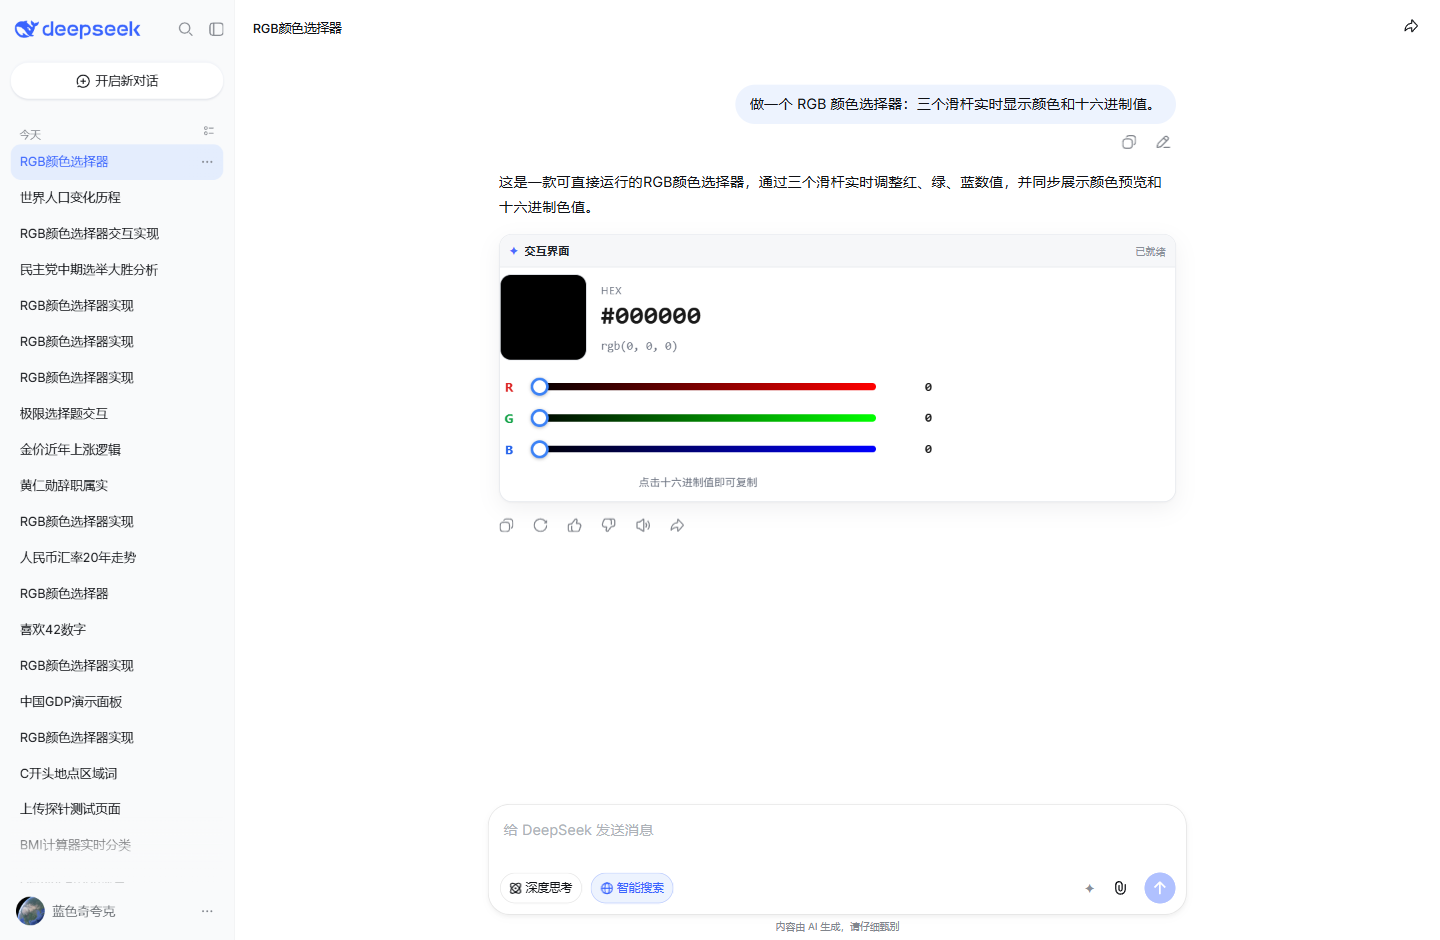
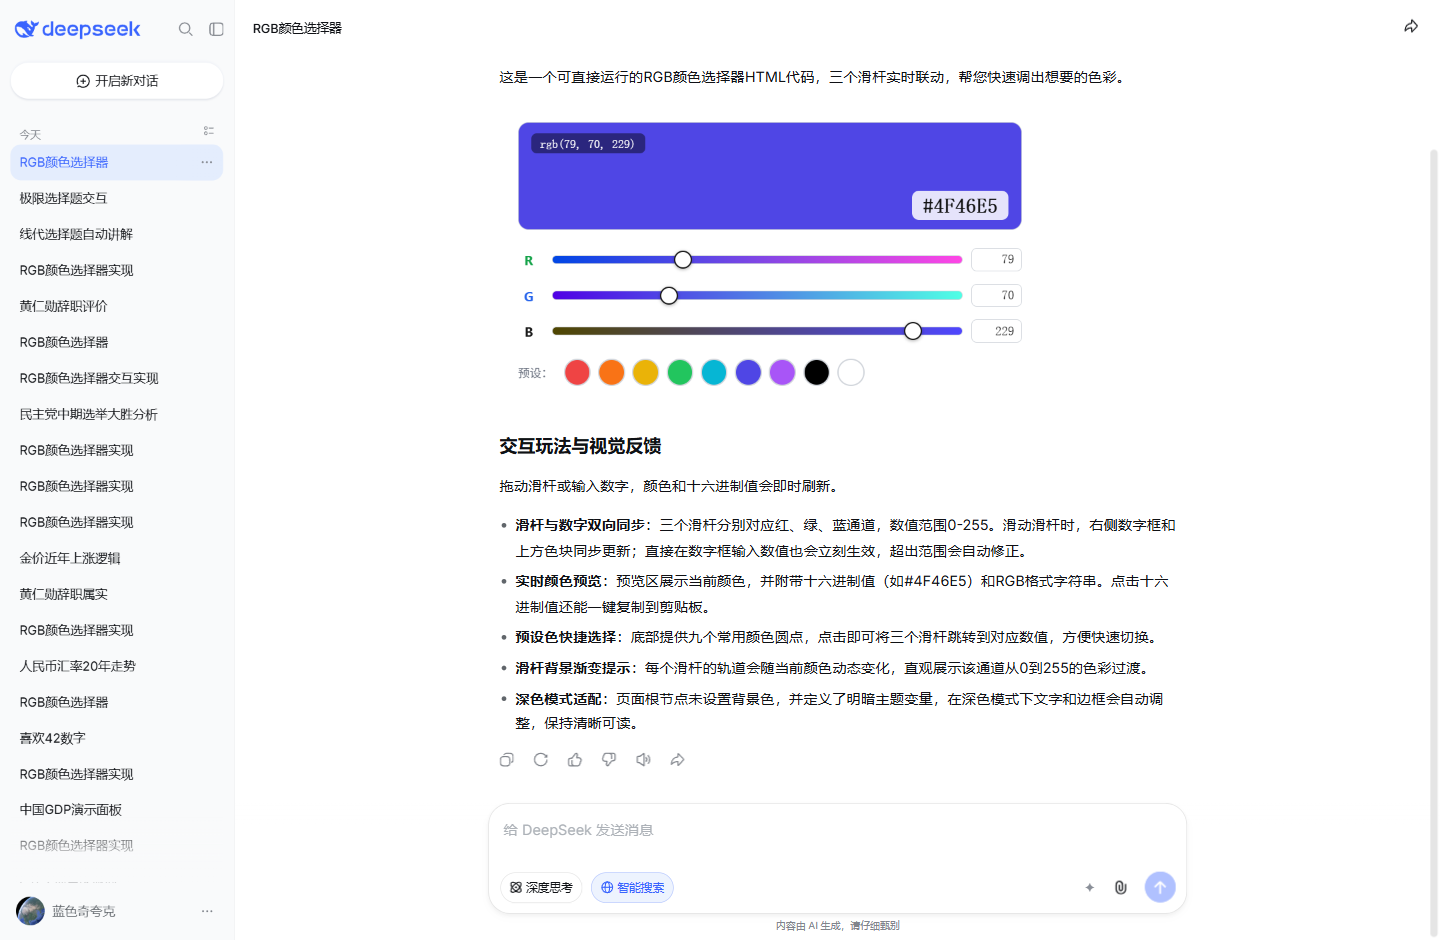
feat(ui): v1.2.0 seamless dsui rendering
- dsui widgets lose card frame, header (star/title), and toolbar; transparent background, no border/shadow/radius
- dsui height extends naturally with content (page scroll) instead of being clipped to 72vh; html fallback unchanged
- fix null statusEl timer for headerless dsui widgets
- docs/screenshot and README/architecture updated

diff --git a/dist/intelligent-deepseek.user.js b/dist/intelligent-deepseek.user.js
@@ -2,7 +2,7 @@
 // @name         DeepSeek Intelligent UI
 // @name:zh-CN   DeepSeek 智能交互界面
 // @namespace    lsqkk.intelligent-deepseek
-// @version      1.1.1
+// @version      1.2.0
 // @description  Bring GPT-6 Intelligent-UI style interactive HTML rendering to chat.deepseek.com: first-turn protocol injection, streaming dsui widgets, and widget-to-chat actions.
 // @description:zh-CN  给 chat.deepseek.com 引入类似 GPT-6 Intelligent UI 的机制：新会话首条消息注入界面协议、流式渲染可交互 HTML 组件、组件可回传消息继续对话。
 // @author       lsqkk
@@ -574,6 +574,45 @@ html.dark .dsui-widget {
 }
 .dsui-code::-webkit-scrollbar { width: 0; height: 0; display: none; }
 .dsui-code code { font: inherit; color: inherit; }
+
+/* dsui：去掉卡片外框，融入对话；高度自然延展 */
+.dsui-widget[data-kind="dsui"] {
+  border: 0;
+  border-radius: 0;
+  background: transparent;
+  box-shadow: none;
+  margin: 8px 0 14px;
+  overflow: visible;
+  animation: none;
+}
+.dsui-widget[data-kind="dsui"] .dsui-placeholder {
+  position: static;
+  min-height: 72px;
+  background: transparent;
+  color: var(--dsui-muted);
+}
+.dsui-widget[data-kind="dsui"] .dsui-frame { background: transparent; }
+.dsui-widget[data-kind="dsui"] .dsui-foot {
+  border: 0;
+  background: transparent;
+  padding: 4px 2px 0;
+}
+.dsui-widget[data-kind="dsui"] .dsui-code { border-radius: 10px; }
+
+/* 长组件底部用轻微渐隐提示还有内容（不遮挡交互） */
+.dsui-widget[data-kind="dsui"] .dsui-body::after {
+  content: "";
+  position: absolute;
+  left: 0;
+  right: 0;
+  bottom: 0;
+  height: 14px;
+  pointer-events: none;
+  background: linear-gradient(to bottom, transparent, color-mix(in srgb, var(--dsui-bg) 55%, transparent));
+  opacity: 0;
+  transition: opacity .2s ease;
+}
+.dsui-widget[data-kind="dsui"][data-overflow="1"] .dsui-body::after { opacity: 1; }
 .dsui-foot {
   padding: 7px 12px;
   border-top: 1px solid var(--dsui-border);
@@ -709,10 +748,10 @@ body.dark #dsui-fab.dsui-fab-floating, html.dark #dsui-fab.dsui-fab-floating {
     const title = m?.[1]?.trim();
     return title ? decodeEntities(title).slice(0, 80) : fallback;
   }
-  function clampWidgetHeight(height, viewportHeight = window.innerHeight) {
+  function clampWidgetHeight(height, viewportHeight = window.innerHeight, options = {}) {
     const content = Number(height) || 0;
-    const min = 140;
-    const max = Math.max(min + 80, Math.round(viewportHeight * 0.72));
+    const min = Number(options.min) || 140;
+    const max = Number(options.max) || Math.max(min + 80, Math.round(viewportHeight * 0.72));
     return Math.min(Math.max(content, min), max);
   }
   var decoderEl = null;
@@ -1149,19 +1188,21 @@ body.dark #dsui-fab.dsui-fab-floating, html.dark #dsui-fab.dsui-fab-floating {
       const root = document.createElement("div");
       root.className = "dsui-widget";
       root.dataset.dsuiId = this.id;
+      root.dataset.kind = this.kind;
       root.dataset.state = "streaming";
       const actions = this.kind === "html" ? `<span class="dsui-actions">
              <button type="button" class="dsui-btn" data-act="code" title="切换查看源码">代码</button>
              <button type="button" class="dsui-btn" data-act="copy" title="复制源码">复制</button>
              <button type="button" class="dsui-btn" data-act="download" title="下载 HTML">下载</button>
            </span>` : "";
+      const head = this.kind === "html" ? `<div class="dsui-head">
+             <span class="dsui-mark" aria-hidden="true">✦</span>
+             <span class="dsui-title">交互界面</span>
+             <span class="dsui-status" data-busy="1">生成中…</span>
+             ${actions}
+           </div>` : "";
       root.innerHTML = `
-      <div class="dsui-head">
-        <span class="dsui-mark" aria-hidden="true">✦</span>
-        <span class="dsui-title">交互界面</span>
-        <span class="dsui-status" data-busy="1">生成中…</span>
-        ${actions}
-      </div>
+      ${head}
       <div class="dsui-body">
         <div class="dsui-placeholder"><span class="dsui-spinner"></span><span>正在构建界面…</span></div>
         <iframe class="dsui-frame" sandbox="allow-scripts" referrerpolicy="no-referrer" title="交互界面"></iframe>
@@ -1178,7 +1219,7 @@ body.dark #dsui-fab.dsui-fab-floating, html.dark #dsui-fab.dsui-fab-floating {
       this.codeEl = root.querySelector(".dsui-code code");
       this.footEl = root.querySelector(".dsui-foot");
       this.sendTimes = [];
-      this.iframe.style.height = "260px";
+      this.iframe.style.height = this.kind === "dsui" ? "120px" : "260px";
       root.addEventListener("click", (event) => this.onClick(event));
       this.iframe.addEventListener("load", () => {
         if (this.navigated) return;
@@ -1279,7 +1320,7 @@ body.dark #dsui-fab.dsui-fab-floating, html.dark #dsui-fab.dsui-fab-floating {
       this.ready = false;
       if (!this.el) return;
       const title = extractTitle(next, "交互界面");
-      if (this.titleEl.textContent !== title) this.titleEl.textContent = title;
+      if (this.titleEl && this.titleEl.textContent !== title) this.titleEl.textContent = title;
       this.setStatus("生成中…", true);
       if (this.el) this.el.dataset.state = "streaming";
       if (this.showCode) this.codeEl.textContent = next;
@@ -1296,7 +1337,7 @@ body.dark #dsui-fab.dsui-fab-floating, html.dark #dsui-fab.dsui-fab-floating {
       clearTimeout(this.statusTimer);
       this.statusTimer = setTimeout(() => {
         if (this.footEl) this.footEl.hidden = true;
-        this.statusEl.textContent = "";
+        if (this.statusEl) this.statusEl.textContent = "";
       }, 2600);
     }
     scheduleRender(immediate) {
@@ -1377,7 +1418,7 @@ body.dark #dsui-fab.dsui-fab-floating, html.dark #dsui-fab.dsui-fab-floating {
           this.applyHeight(data.height);
           break;
         case "title":
-          if (data.text) this.titleEl.textContent = String(data.text).slice(0, 80);
+          if (data.text && this.titleEl) this.titleEl.textContent = String(data.text).slice(0, 80);
           break;
         case "error":
           this.showError(data.message);
@@ -1390,9 +1431,17 @@ body.dark #dsui-fab.dsui-fab-floating, html.dark #dsui-fab.dsui-fab-floating {
       }
     }
     applyHeight(height) {
-      const h = clampWidgetHeight(height, window.innerHeight);
+      const isDsui = this.kind === "dsui";
+      const h = clampWidgetHeight(height, window.innerHeight, {
+        // dsui 去掉卡片外框后让高度自然延展，由页面滚动承接
+        min: isDsui ? 60 : 140,
+        max: isDsui ? 6e3 : Math.max(220, Math.round(window.innerHeight * 0.72))
+      });
       this.lastHeight = h;
       this.iframe.style.height = `${h}px`;
+      if (isDsui && this.el) {
+        this.el.dataset.overflow = Number(height) > h + 2 ? "1" : "0";
+      }
     }
     async sendMessageToChat(text) {
       const content = String(text ?? "").trim();
@@ -1697,7 +1746,7 @@ select:focus, textarea:focus { border-color: var(--accent); }
 .btn:active { transform: translateY(1px); }
 .hint { margin-top: 9px; font-size: 10.5px; color: var(--muted); line-height: 1.5; }
 `;
-  var VERSION = false ? "dev" : "1.1.1";
+  var VERSION = false ? "dev" : "1.2.0";
   var TOGGLES = [
     { key: "enabled", label: "启用 Intelligent UI", desc: "总开关：关闭后不注入、不渲染" },
     { key: "injectPrompt", label: "自动注入界面协议", desc: "新会话首条消息注入一次（推荐）" },
@@ -1889,7 +1938,7 @@ select:focus, textarea:focus { border-color: var(--accent); }
     registerMenu(ui);
     if (getSettings().debug) installDebugApi(ui);
     if (getSettings().debug) {
-      console.info("[DS-UI] booted", "1.1.1", "settings=", getSettings());
+      console.info("[DS-UI] booted", "1.2.0", "settings=", getSettings());
       setTimeout(() => console.info("[DS-UI] debug state", window.__dsui?.debugState?.()), 3e3);
     }
     window.addEventListener("beforeunload", () => rendererStop?.());
@@ -1918,7 +1967,7 @@ select:focus, textarea:focus { border-color: var(--accent); }
   function installDebugApi(ui) {
     installWidgetMessageRouter();
     const api = {
-      version: "1.1.1",
+      version: "1.2.0",
       getSettings,
       saveSettings,
       resetSettings: () => {
@@ -1932,7 +1981,7 @@ select:focus, textarea:focus { border-color: var(--accent); }
       debugState() {
         return {
           settings: getSettings(),
-          version: "1.1.1",
+          version: "1.2.0",
           roots: document.querySelectorAll(".ds-markdown.ds-assistant-message-main-content").length,
           blocks: [...document.querySelectorAll(".md-code-block")].map((block) => ({
             lang: readLang(block),

diff --git a/src/widget.js b/src/widget.js
@@ -339,6 +339,7 @@ export class Widget {
     const root = document.createElement('div');
     root.className = 'dsui-widget';
     root.dataset.dsuiId = this.id;
+    root.dataset.kind = this.kind;
     root.dataset.state = 'streaming';
     const actions =
       this.kind === 'html'
@@ -348,13 +349,17 @@ export class Widget {
              <button type="button" class="dsui-btn" data-act="download" title="下载 HTML">下载</button>
            </span>`
         : '';
+    const head =
+      this.kind === 'html'
+        ? `<div class="dsui-head">
+             <span class="dsui-mark" aria-hidden="true">✦</span>
+             <span class="dsui-title">交互界面</span>
+             <span class="dsui-status" data-busy="1">生成中…</span>
+             ${actions}
+           </div>`
+        : '';
     root.innerHTML = `
-      <div class="dsui-head">
-        <span class="dsui-mark" aria-hidden="true">✦</span>
-        <span class="dsui-title">交互界面</span>
-        <span class="dsui-status" data-busy="1">生成中…</span>
-        ${actions}
-      </div>
+      ${head}
       <div class="dsui-body">
         <div class="dsui-placeholder"><span class="dsui-spinner"></span><span>正在构建界面…</span></div>
         <iframe class="dsui-frame" sandbox="allow-scripts" referrerpolicy="no-referrer" title="交互界面"></iframe>
@@ -374,7 +379,7 @@ export class Widget {
     this.sendTimes = [];
 
     // 初始高度，避免 iframe 高度为 0 时内容测量异常
-    this.iframe.style.height = '260px';
+    this.iframe.style.height = this.kind === 'dsui' ? '120px' : '260px';
 
     root.addEventListener('click', (event) => this.onClick(event));
     this.iframe.addEventListener('load', () => {
@@ -484,7 +489,7 @@ export class Widget {
     if (!this.el) return;
 
     const title = extractTitle(next, '交互界面');
-    if (this.titleEl.textContent !== title) this.titleEl.textContent = title;
+    if (this.titleEl && this.titleEl.textContent !== title) this.titleEl.textContent = title;
     this.setStatus('生成中…', true);
     if (this.el) this.el.dataset.state = 'streaming';
 
@@ -504,7 +509,7 @@ export class Widget {
     clearTimeout(this.statusTimer);
     this.statusTimer = setTimeout(() => {
       if (this.footEl) this.footEl.hidden = true;
-      this.statusEl.textContent = '';
+      if (this.statusEl) this.statusEl.textContent = '';
     }, 2600);
   }
 
@@ -593,7 +598,7 @@ export class Widget {
         this.applyHeight(data.height);
         break;
       case 'title':
-        if (data.text) this.titleEl.textContent = String(data.text).slice(0, 80);
+        if (data.text && this.titleEl) this.titleEl.textContent = String(data.text).slice(0, 80);
         break;
       case 'error':
         this.showError(data.message);
@@ -607,9 +612,17 @@ export class Widget {
   }
 
   applyHeight(height) {
-    const h = clampWidgetHeight(height, window.innerHeight);
+    const isDsui = this.kind === 'dsui';
+    const h = clampWidgetHeight(height, window.innerHeight, {
+      // dsui 去掉卡片外框后让高度自然延展，由页面滚动承接
+      min: isDsui ? 60 : 140,
+      max: isDsui ? 6000 : Math.max(220, Math.round(window.innerHeight * 0.72)),
+    });
     this.lastHeight = h;
     this.iframe.style.height = `${h}px`;
+    if (isDsui && this.el) {
+      this.el.dataset.overflow = Number(height) > h + 2 ? '1' : '0';
+    }
   }
 
   async sendMessageToChat(text) {
@@ -672,7 +685,6 @@ export class Widget {
     else delete this.statusEl.dataset.busy;
     if (text) this.statusEl.hidden = false;
   }
-
   showError(message) {
     if (!this.footEl) return;
     this.footEl.hidden = false;

diff --git a/src/styles.js b/src/styles.js
@@ -152,6 +152,45 @@ html.dark .dsui-widget {
 }
 .dsui-code::-webkit-scrollbar { width: 0; height: 0; display: none; }
 .dsui-code code { font: inherit; color: inherit; }
+
+/* dsui：去掉卡片外框，融入对话；高度自然延展 */
+.dsui-widget[data-kind="dsui"] {
+  border: 0;
+  border-radius: 0;
+  background: transparent;
+  box-shadow: none;
+  margin: 8px 0 14px;
+  overflow: visible;
+  animation: none;
+}
+.dsui-widget[data-kind="dsui"] .dsui-placeholder {
+  position: static;
+  min-height: 72px;
+  background: transparent;
+  color: var(--dsui-muted);
+}
+.dsui-widget[data-kind="dsui"] .dsui-frame { background: transparent; }
+.dsui-widget[data-kind="dsui"] .dsui-foot {
+  border: 0;
+  background: transparent;
+  padding: 4px 2px 0;
+}
+.dsui-widget[data-kind="dsui"] .dsui-code { border-radius: 10px; }
+
+/* 长组件底部用轻微渐隐提示还有内容（不遮挡交互） */
+.dsui-widget[data-kind="dsui"] .dsui-body::after {
+  content: "";
+  position: absolute;
+  left: 0;
+  right: 0;
+  bottom: 0;
+  height: 14px;
+  pointer-events: none;
+  background: linear-gradient(to bottom, transparent, color-mix(in srgb, var(--dsui-bg) 55%, transparent));
+  opacity: 0;
+  transition: opacity .2s ease;
+}
+.dsui-widget[data-kind="dsui"][data-overflow="1"] .dsui-body::after { opacity: 1; }
 .dsui-foot {
   padding: 7px 12px;
   border-top: 1px solid var(--dsui-border);

diff --git a/src/dom.js b/src/dom.js
@@ -54,10 +54,10 @@ export function extractTitle(html, fallback = '交互界面') {
   const title = m?.[1]?.trim();
   return title ? decodeEntities(title).slice(0, 80) : fallback;
 }
-export function clampWidgetHeight(height, viewportHeight = window.innerHeight) {
+export function clampWidgetHeight(height, viewportHeight = window.innerHeight, options = {}) {
   const content = Number(height) || 0;
-  const min = 140;
-  const max = Math.max(min + 80, Math.round(viewportHeight * 0.72));
+  const min = Number(options.min) || 140;
+  const max = Number(options.max) || Math.max(min + 80, Math.round(viewportHeight * 0.72));
   return Math.min(Math.max(content, min), max);
 }
 

diff --git a/README.md b/README.md
@@ -3,7 +3,7 @@
 给 [chat.deepseek.com](https://chat.deepseek.com/) 引入类似 GPT-6 **Intelligent UI** 的机制：
 
 1. **自动注入界面协议（默认：新会话首条消息注入一次）** —— 开启「自动注入」后，每个新会话的第一条消息会把「智能界面协议」追加到用户 prompt 末尾；「每轮都注入」默认关闭，需要持续保持界面能力时再打开。界面上的用户消息保持原样。
-2. **流式渲染可交互组件** —— 模型按协议输出 ` ```dsui ` 代码块（自包含 HTML）后，脚本就地渲染成沙箱 iframe：生成过程中渐进刷新、可交互、可拆分多个组件；dsui 卡片不显示工具栏，避免打断对话。
+2. **流式渲染可交互组件** —— 模型按协议输出 ` ```dsui ` 代码块（自包含 HTML）后，脚本就地渲染成沙箱 iframe：生成过程中渐进刷新、可交互、可拆分多个组件；dsui 卡片**无外框、无标题栏、无工具栏**，和对话自然融合，高度随内容向页面自然延展。
 3. **组件回传对话** —— 组件里调用 `window.dsui.sendMessage('...')` 会直接写入输入框并发送（子端有用户手势与频率限制，防止组件加载即自动发消息）。
 4. **历史消息自动净化** —— 注入内容存在 DeepSeek 服务端，刷新/切换对话时脚本会在响应被应用读取前剥离注入块，界面、编辑框、复制内容都不会出现协议文本。
 5. **主题 / 高度 / 安全** —— 组件跟随 DeepSeek 深浅色（`data-ds-theme` + `@media (prefers-color-scheme)` 兜底）；iframe 高度自适应、内部滚动条隐藏；`sandbox="allow-scripts"`（无 same-origin / forms / top-navigation），CSP 禁止外链、网络请求、表单提交。
@@ -24,7 +24,8 @@
 ## 使用
 
 - 正常对话即可。遇到适合界面的问题（数据可视化、计算器、规划、表单、模拟、教学、小游戏等），模型会在简短说明后输出 `dsui` 组件，脚本自动渲染；一次回答可以包含多个组件卡片。
-- **dsui 卡片不显示工具栏**（代码/复制/下载/全屏都不显示），保持对话干净；若模型输出普通 `html` 完整文档，走兜底卡片并保留 **代码 / 复制 / 下载**。
+- **dsui 卡片去掉外框与标题栏**，无圆角/边框/阴影/工具栏，和上下文自然衔接；组件高度自适应并向页面自然延展。
+- 若模型输出普通 `html` 完整文档，走兜底卡片并保留 **标题 / 代码 / 复制 / 下载**（这条路径样式不变）。
 - 组件内调用 `window.dsui.sendMessage(...)` 会直接发送一条对话消息；组件加载时自动调用会被手势检查拦截。
 - 若模型偷懒输出普通 `html` 完整文档，默认也会被渲染（设置里可关掉；注意这会把教程里的完整 HTML 也执行起来）。
 - 设置项：总开关、**自动注入（默认开，新会话首条消息注入一次）**、**每轮都注入（默认关）**、自动渲染、普通 html 兜底、允许组件回传、显示设置按钮、协议语言、附加要求。
